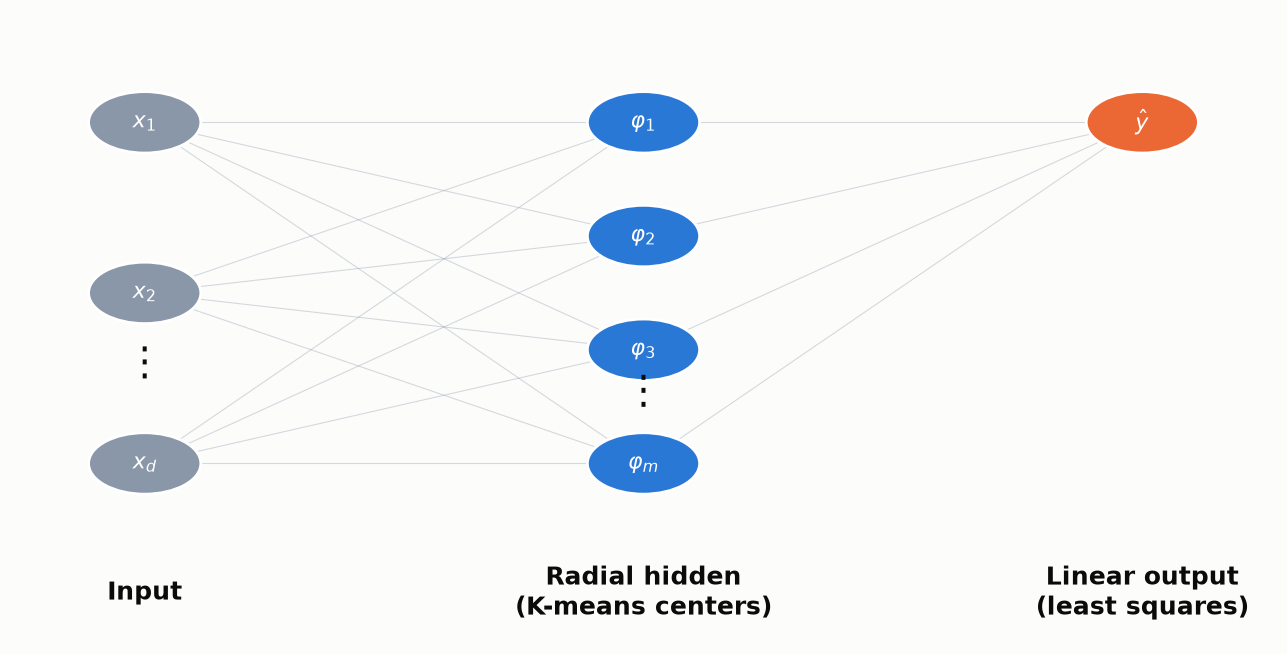
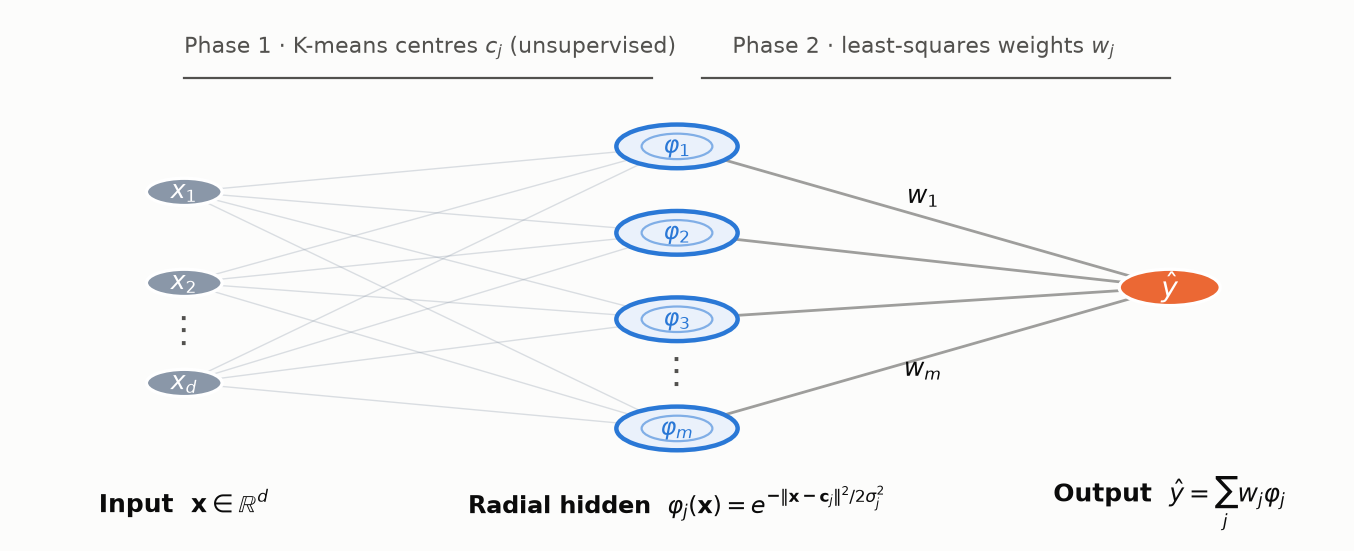
Redesign architecture diagram and clean up the CD diagram
Figure 1 now shows the RBF-specific radial motif (concentric-ring hidden
units), the two-phase training (K-means centres, least-squares weights) and
the Gaussian activation. The critical-difference diagram uses a single
neutral ink instead of per-model colours, so both read clearly in black
and white.

diff --git a/src/rbf_experiments.py b/src/rbf_experiments.py
@@ -129,37 +129,63 @@ def fig_receptive_fields():
 # Figure 0 — architecture schematic (input -> radial hidden -> linear output)
 # ---------------------------------------------------------------------------
 def fig_architecture():
-    fig, ax = plt.subplots(figsize=(6.6, 3.4))
+    fig, ax = plt.subplots(figsize=(6.9, 2.9))
     ax.axis("off")
-    layers = {0.1: (["$x_1$", "$x_2$", "$x_d$"], "#8A97A8", "Input"),
-              0.5: ([r"$\varphi_1$", r"$\varphi_2$", r"$\varphi_3$",
-                     r"$\varphi_m$"], BLUE, "Radial hidden\n(K-means centers)"),
-              0.9: (["$\\hat{y}$"], ORANGE, "Linear output\n(least squares)")}
-    pos = {}
-    for x, (nodes, col, _) in layers.items():
-        ys = np.linspace(0.75, 0.25, len(nodes))
-        for j, (n, y) in enumerate(zip(nodes, ys)):
-            if n in ("$x_d$", r"$\varphi_m$") and j == len(nodes) - 1:
-                ax.text(x, (ys[-2] + y) / 2 + 0.02, r"$\vdots$", ha="center",
-                        va="center", fontsize=14)
-            c = plt.Circle((x, y), 0.045, color=col, ec="white", zorder=3)
-            ax.add_patch(c)
-            ax.text(x, y, n, ha="center", va="center", color="white",
-                    fontsize=8, zorder=4)
-            pos[(x, j)] = (x, y)
-    # edges
-    xs = list(layers.keys())
-    for a, b in [(xs[0], xs[1]), (xs[1], xs[2])]:
-        na = len(layers[a][0]); nb = len(layers[b][0])
-        ya = np.linspace(0.75, 0.25, na); yb = np.linspace(0.75, 0.25, nb)
-        for i in range(na):
-            for k in range(nb):
-                ax.plot([a, b], [ya[i], yb[k]], color=GREY, lw=0.4,
-                        alpha=0.35, zorder=1)
-    for x, (_, _, lab) in layers.items():
-        ax.text(x, 0.06, lab, ha="center", va="center", fontsize=9,
-                fontweight="bold", color=INK)
-    ax.set_xlim(0, 1); ax.set_ylim(0, 0.9)
+    GREYN = "#8A97A8"
+    xin, xhid, xout = 0.11, 0.50, 0.89
+    yin = [0.70, 0.50, 0.28]
+    yhid = [0.80, 0.61, 0.42, 0.18]
+    yout = 0.49
+    # edges: input -> hidden (each unit compares x to its centre), light
+    for ya in yin:
+        for yb in yhid:
+            ax.plot([xin, xhid], [ya, yb], color=GREYN, lw=0.5, alpha=0.30, zorder=1)
+    # edges: hidden -> output (learned weights), darker
+    for yb in yhid:
+        ax.plot([xhid, xout], [yb, yout], color=INK2, lw=1.0, alpha=0.55, zorder=1)
+    ax.text((xhid + xout) / 2, (yhid[0] + yout) / 2 + 0.03, r"$w_1$",
+            fontsize=9, color=INK, ha="center")
+    ax.text((xhid + xout) / 2, (yhid[-1] + yout) / 2 - 0.04, r"$w_m$",
+            fontsize=9, color=INK, ha="center")
+    # input nodes
+    for y, lab in zip(yin, ["$x_1$", "$x_2$", "$x_d$"]):
+        ax.add_patch(plt.Circle((xin, y), 0.030, facecolor=GREYN,
+                                edgecolor="white", lw=1.2, zorder=3))
+        ax.text(xin, y, lab, ha="center", va="center", color="white",
+                fontsize=9, zorder=4)
+    ax.text(xin, (yin[1] + yin[2]) / 2, r"$\vdots$", ha="center", va="center",
+            fontsize=13, color=INK2)
+    # hidden nodes with a radial motif (concentric rings)
+    for y, lab in zip(yhid, ["$\\varphi_1$", "$\\varphi_2$", "$\\varphi_3$", "$\\varphi_m$"]):
+        ax.add_patch(plt.Circle((xhid, y), 0.048, facecolor="#eaf1fb",
+                                edgecolor=BLUE, lw=1.6, zorder=3))
+        ax.add_patch(plt.Circle((xhid, y), 0.028, facecolor="none",
+                                edgecolor=BLUE, lw=0.8, alpha=0.55, zorder=4))
+        ax.text(xhid, y, lab, ha="center", va="center", color=BLUE,
+                fontsize=8.5, fontweight="bold", zorder=5)
+    ax.text(xhid, (yhid[2] + yhid[3]) / 2, r"$\vdots$", ha="center",
+            va="center", fontsize=13, color=INK2)
+    # output node
+    ax.add_patch(plt.Circle((xout, yout), 0.040, facecolor=ORANGE,
+                            edgecolor="white", lw=1.2, zorder=3))
+    ax.text(xout, yout, r"$\hat{y}$", ha="center", va="center",
+            color="white", fontsize=10, zorder=4)
+    # phase annotations (top)
+    ax.plot([xin, xhid - 0.02], [0.95, 0.95], color=INK2, lw=0.8)
+    ax.text((xin + xhid) / 2, 0.99, "Phase 1 \u00b7 K-means centres $c_j$ (unsupervised)",
+            ha="center", va="bottom", fontsize=8, color=INK2)
+    ax.plot([xhid + 0.02, xout], [0.95, 0.95], color=INK2, lw=0.8)
+    ax.text((xhid + xout) / 2, 0.99, "Phase 2 \u00b7 least-squares weights $w_j$",
+            ha="center", va="bottom", fontsize=8, color=INK2)
+    # layer captions (bottom)
+    ax.text(xin, 0.015, "Input  $\\mathbf{x}\\in\\mathbb{R}^{d}$", ha="center",
+            va="center", fontsize=9, fontweight="bold", color=INK)
+    ax.text(xhid, 0.015, "Radial hidden  "
+            "$\\varphi_j(\\mathbf{x})=e^{-\\|\\mathbf{x}-\\mathbf{c}_j\\|^2/2\\sigma_j^2}$",
+            ha="center", va="center", fontsize=8.5, fontweight="bold", color=INK)
+    ax.text(xout, 0.015, "Output  $\\hat{y}=\\sum_j w_j\\varphi_j$", ha="center",
+            va="center", fontsize=9, fontweight="bold", color=INK)
+    ax.set_xlim(-0.02, 1.02); ax.set_ylim(-0.03, 1.08)
     fig.tight_layout()
     fig.savefig(f"{FIGDIR}/fig_architecture.png", bbox_inches="tight")
     plt.close(fig)

diff --git a/src/rbf_stats.py b/src/rbf_stats.py
@@ -48,11 +48,13 @@ def holm(pairs):
 
 
 def cd_diagram(avg_ranks, nemenyi):
-    fig, ax = plt.subplots(figsize=(7.2, 2.4))
+    fig, ax = plt.subplots(figsize=(6.8, 2.3))
+    palette = {m: "#3a3a3a" for m in avg_ranks.index}
     sp.critical_difference_diagram(
         avg_ranks, nemenyi, ax=ax,
-        label_props={"fontsize": 9},
-        marker_props={"s": 55})
+        label_props={"fontsize": 9.5},
+        marker_props={"s": 55, "color": "#3a3a3a"},
+        color_palette=palette)
     ax.set_title("Critical-difference diagram (Nemenyi, $\\alpha=0.05$) — "
                  "lower rank = better", fontsize=9.5, fontweight="bold",
                  color=INK, loc="left")
